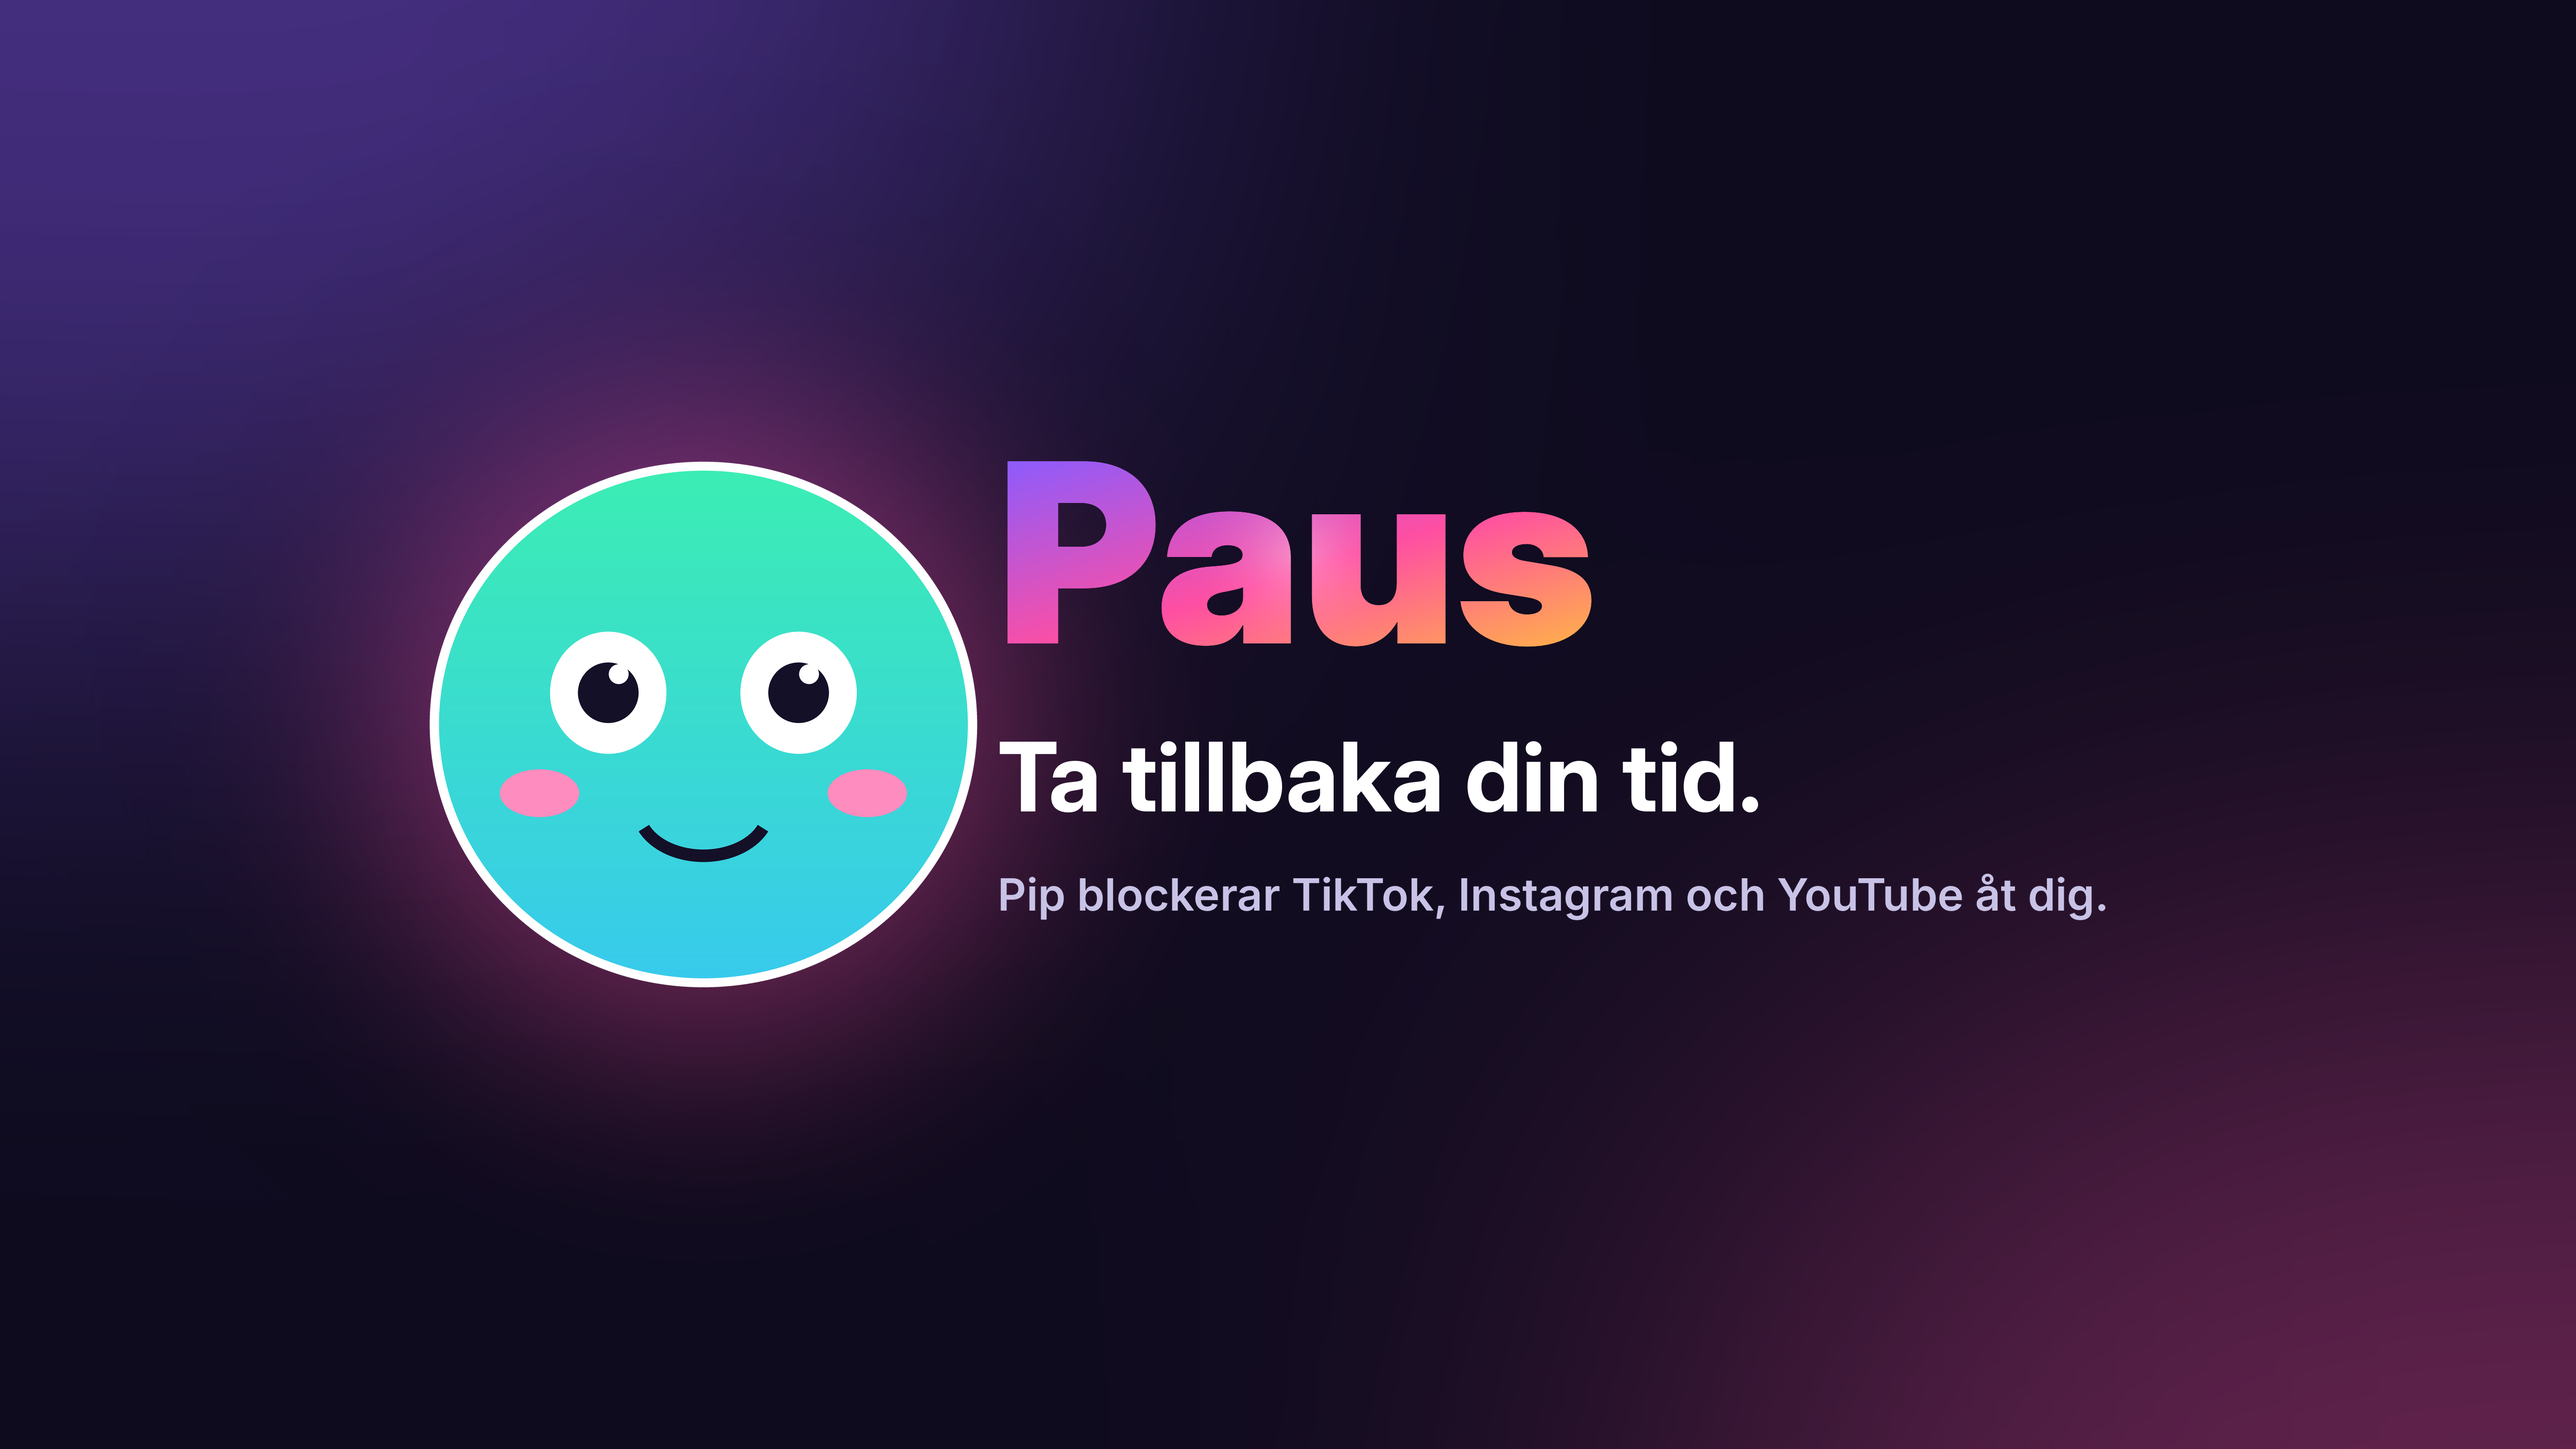
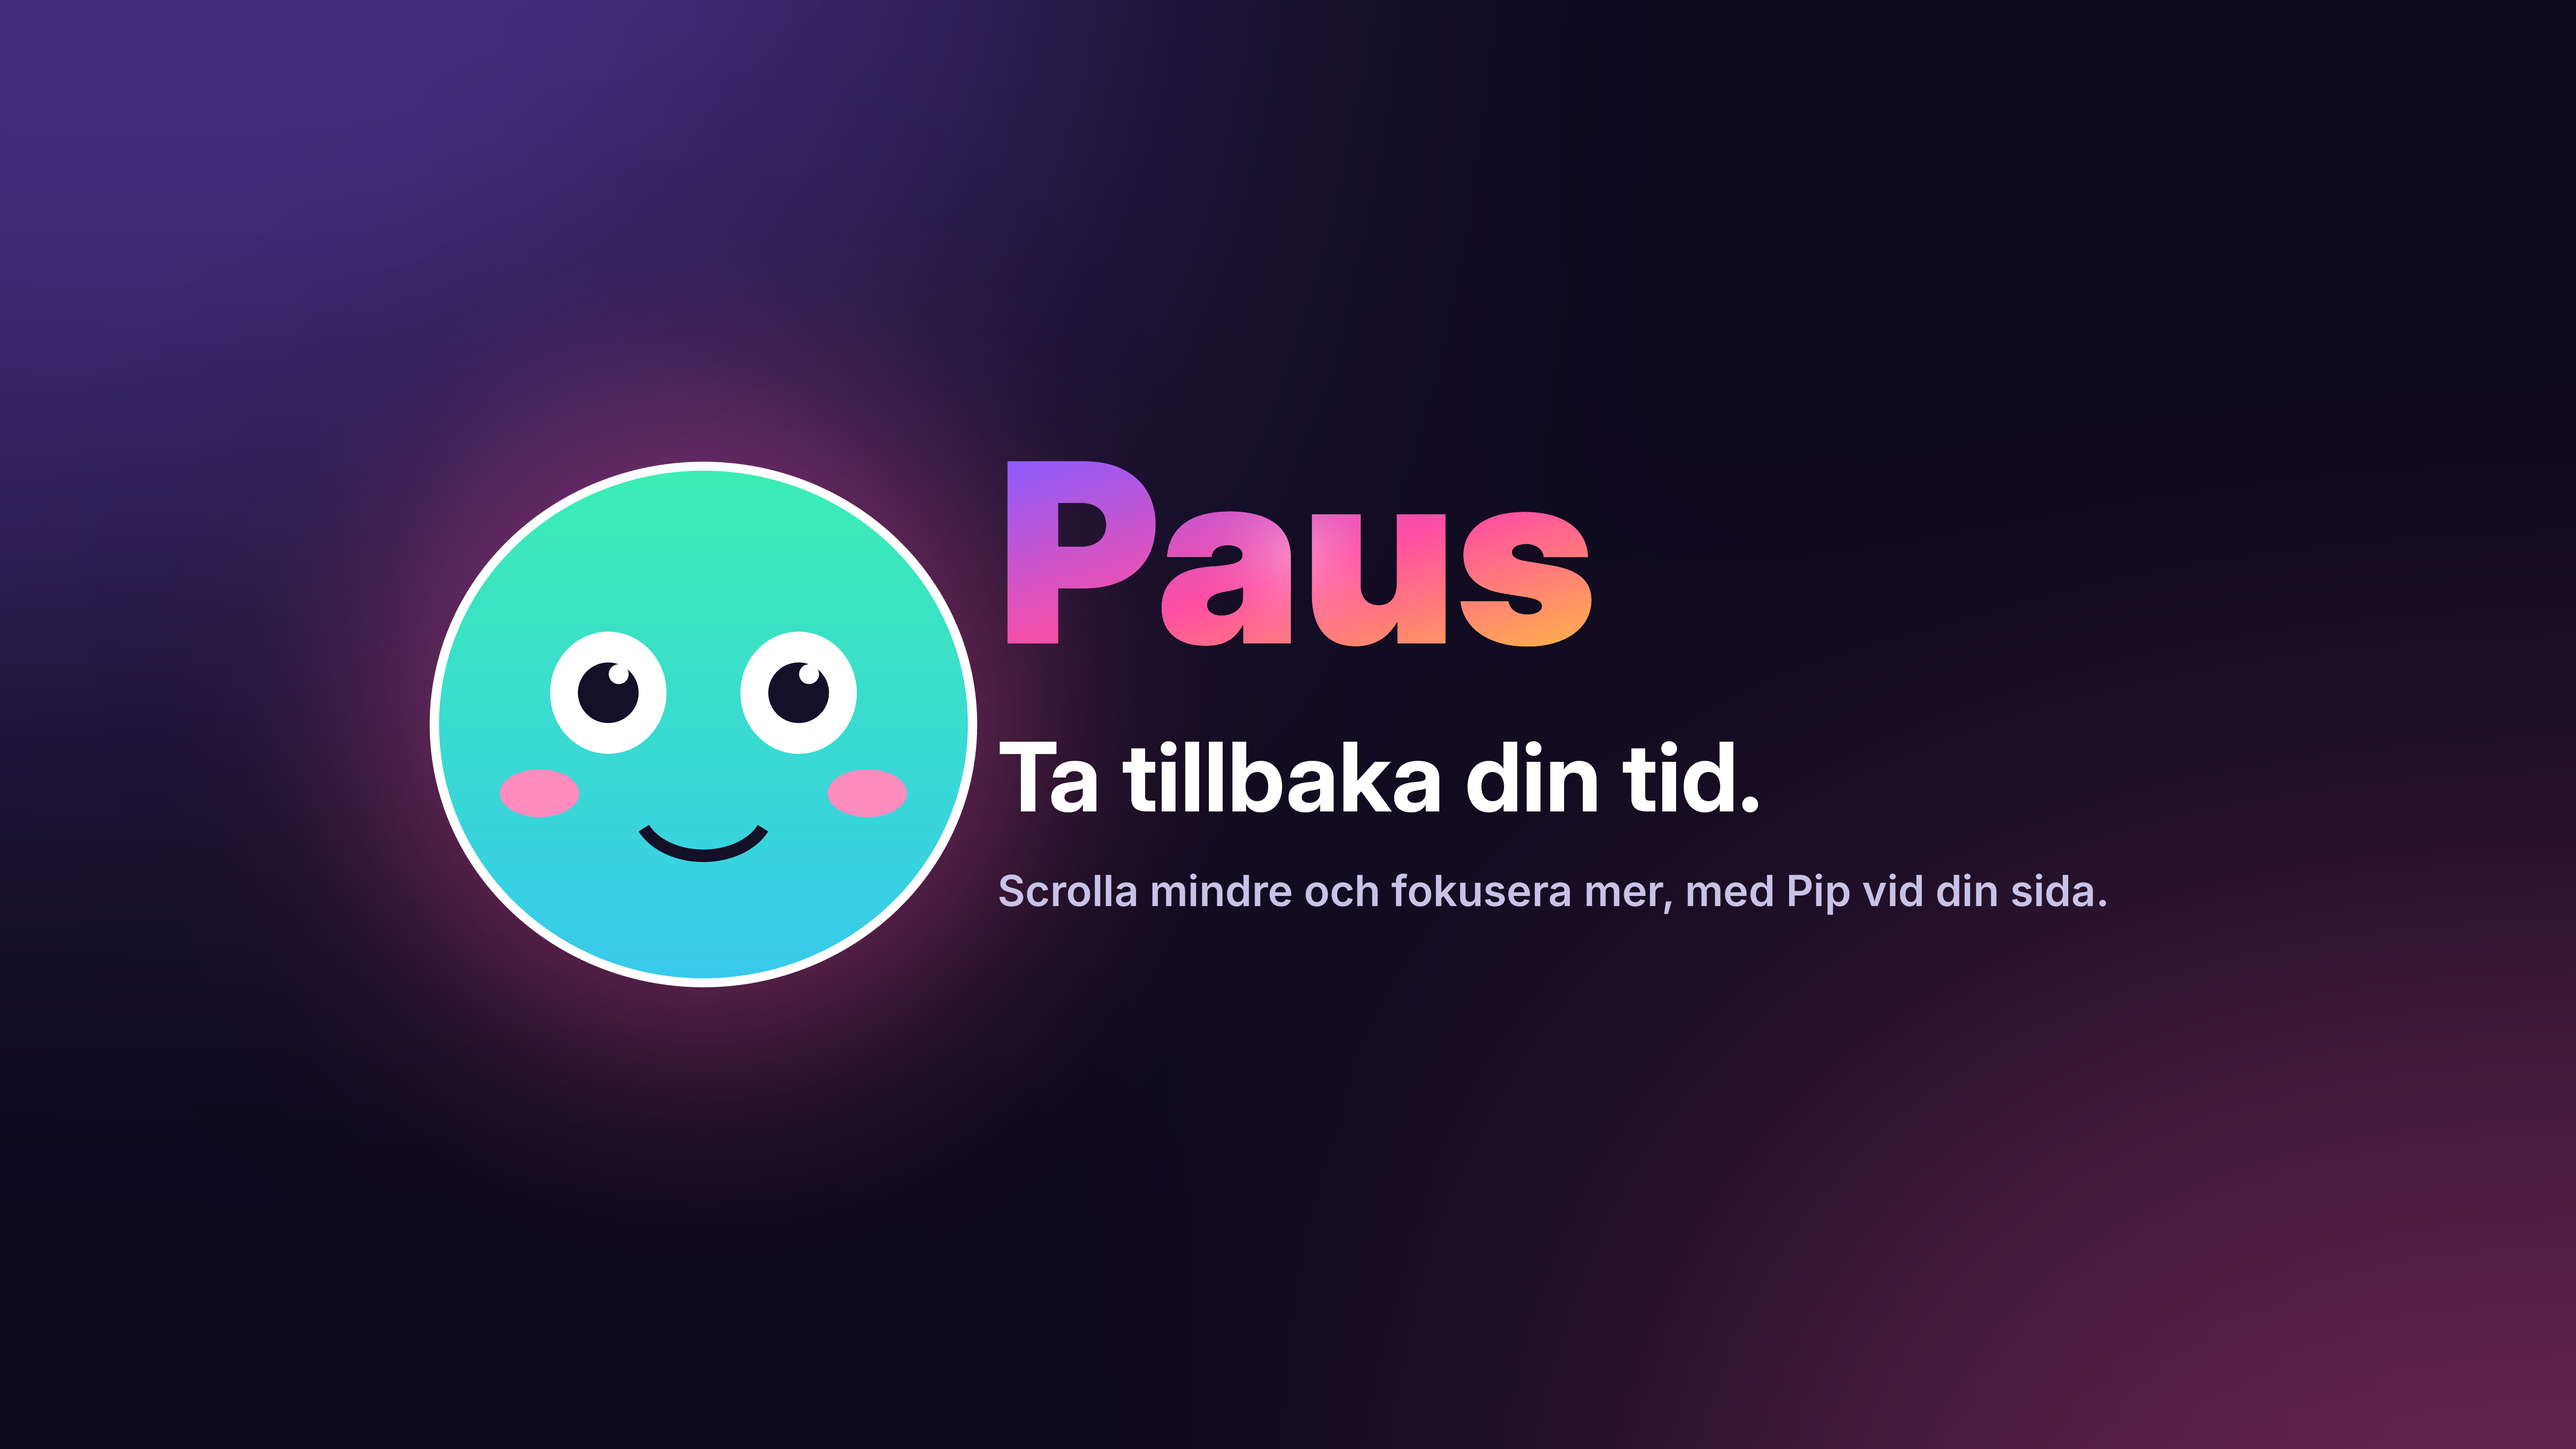
Describe what Paus is for instead of naming three apps
The banners, headers and bios named TikTok, Instagram and YouTube,
which undersold an app that blocks whatever steals your time. They now
say what it's for: scroll less and focus more, with Pip.

Claude-Session: https://claude.ai/code/session_012Kq6TeAr3S1Grht9ZAyFjf

Changed region(s): [[0.373, 0.5925, 0.8082, 0.6549]]

diff --git a/Brand/make_brand.py b/Brand/make_brand.py
@@ -26,7 +26,7 @@ INK = (20, 16, 40)
 WHITE = (255, 255, 255)
 
 TAGLINE = {"sv": "Ta tillbaka din tid.", "en": "Take back your time."}
-SUBLINE = {"sv": "Pip blockerar TikTok, Instagram och YouTube åt dig.", "en": "Pip blocks TikTok, Instagram and YouTube for you."}
+SUBLINE = {"sv": "Scrolla mindre och fokusera mer, med Pip vid din sida.", "en": "Scroll less and focus more, with Pip by your side."}
 SOON = {"sv": "Snart i App Store", "en": "Coming soon to the App Store"}
 
 

diff --git a/Brand/profiler.md b/Brand/profiler.md
@@ -31,12 +31,12 @@ Loggan för ljusa bakgrunder, till exempel dokument och presentationer, heter `l
 
 **Svenska**
 > Pip hjälper dig scrolla mindre 📵
-> Blockera TikTok & Instagram, samla XP, tävla med vänner 🏆
+> Blockera det som stjäl din tid, samla XP, tävla med vänner 🏆
 > Snart i App Store 👇
 
 **English**
 > Pip helps you scroll less 📵
-> Block TikTok & Instagram, earn XP, compete with friends 🏆
+> Block what steals your time, earn XP, compete with friends 🏆
 > Coming soon to the App Store 👇
 
 Länk i profilen: `https://pausewebb.lovable.app`
@@ -58,12 +58,12 @@ Länk i profilen: `https://pausewebb.lovable.app`
 ## YouTube (kanalbeskrivning)
 
 **Svenska**
-> Snittet är 6 timmar om dagen i mobilen, vilket blir nästan 25 år av ditt vakna liv. Paus är appen som hjälper dig ta tillbaka den tiden. Pip blockerar TikTok, Instagram och YouTube när du har bestämt det, ger XP för varje fokuspass och låter dig tävla mot vänner i veckoligor.
+> Snittet är 6 timmar om dagen i mobilen, vilket blir nästan 25 år av ditt vakna liv. Paus är appen som hjälper dig ta tillbaka den tiden. Pip blockerar apparna som stjäl din tid när du har bestämt det, ger XP för varje fokuspass och låter dig tävla mot vänner i veckoligor.
 >
 > Här lägger vi upp tips för att scrolla mindre, nyheter om appen och utmaningar. Prenumerera och häng med!
 
 **English**
-> The average is 6 hours a day on our phones – almost 25 years of your waking life. Paus is the app that helps you take that time back. Pip blocks TikTok, Instagram and YouTube when you've decided to, gives XP for every focus session and lets you compete with friends in weekly leagues.
+> The average is 6 hours a day on our phones – almost 25 years of your waking life. Paus is the app that helps you take that time back. Pip blocks the apps that steal your time when you've decided to, gives XP for every focus session and lets you compete with friends in weekly leagues.
 >
 > We post tips for scrolling less, app news and challenges. Subscribe and join in!
 
